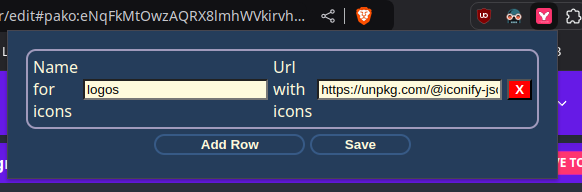
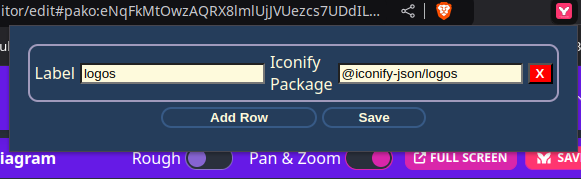
Documentation and QOL, actions doesnt work

diff --git a/inject.js b/inject.js
@@ -7,6 +7,30 @@ function loadInputsFromStorage() {
     });
 }
 
+function packageToUrl(package){
+    const start = 'https://unpkg.com/';
+    const end = '/icons.json';
+    const url = start + package + end;
+    return url;
+}
+
+function loadToUpload(load){
+    const result = [];
+    for (namePackage of load){
+        result.push(make_url(namePackage));
+    }
+    return result;
+}
+
+function make_url(namePackage){
+    const name = namePackage.name;
+    const url = namePackage.url;
+    const upload = {
+        name: name,
+        url: packageToUrl(url)
+    }
+    return upload;
+}
 
 function injectDefaultDiv(){
     const hiddenDiv = document.createElement("div");
@@ -20,8 +44,9 @@ async function injectData() {
     // Cargar datos de almacenamiento
     injectDefaultDiv();
     const variables = await loadInputsFromStorage();
+    const upload = loadToUpload(variables);
     const hiddenDiv = document.getElementById("extension-data");
-    hiddenDiv.textContent = JSON.stringify(variables);
+    hiddenDiv.textContent = JSON.stringify(upload);
 }
 
 // Ejecutar la función principal

diff --git a/popup/scripts.js b/popup/scripts.js
@@ -7,7 +7,7 @@ function check_url(text){
     let condition1 = text.startsWith(start);
     let c2 = text.endsWith(end);
     let c = condition1 && c2;
-    return c;
+    return true;
 }
 
 function check_name(text){
@@ -49,7 +49,7 @@ function add_row(name='',value='') {
 
     // Crear y añadir el span
     const span_0 = document.createElement("span");
-    span_0.textContent = "Name for icons";
+    span_0.textContent = "Label";
     newDiv.appendChild(span_0);
 
     // Crear y añadir el input
@@ -63,7 +63,7 @@ function add_row(name='',value='') {
 
     // Crear y añadir el span
     const span = document.createElement("span");
-    span.textContent = "Url with icons";
+    span.textContent = "Iconify Package";
     newDiv.appendChild(span);
 
     // Crear y añadir el input

diff --git a/README.md b/README.md
@@ -11,14 +11,37 @@ Once you install the app from the marketplace, you will have the extension popup
 
 ![PopupImage](./assets/ExtensionPopup.png)
 
-* ***Name for icons*** equals the label that you will use in the app text editor.
-* ***Url with icons*** is the url with the json file of the icons. ([Official example]('https://unpkg.com/@iconify-json/logos@1/icons.json')) and must start with https://unpkg.com/ and end with .json for the extension to work.
+* ***Label***: the label that you will use in the app text editor.
+* ***Iconify package*** The iconify package with the icons ([Official example]('https://unpkg.com/@iconify-json/logos@1/icons.json')) and must start with https://unpkg.com/ and end with .json for the extension to work.
 
 You will start without any rows, you can add one by pressing "Add row", and you will need to click on "Save" to save them (There is no animation, to prove it was saved, close and open the popup again, or click outside and open it again). Always locally (on your computer).
 
 And that is all, if you go to my version of it, it will work as [documented](https://mermaid.js.org/syntax/architecture.html).
 
 ![LiveExample](./assets/ExampleLiveEditor.png)
+
+
+## How to get new icons
+
+Once you have chosen your icons from the [page](https://icones.js.org/) you need to do the next steps:
+
+### Example
+
+1. Choose Icon pack.
+
+![Step1](./assets/ExampleStep1.png)
+
+2. Click on the npm link. It will open a new tab.
+
+![Step2](./assets/ExampleStep2.png)
+
+3. Copy the package name (the highlighted text).
+
+![Step3](./assets/ExampleStep3.png)
+
+4. Paste the package on the input of the popup (Iconify package).
+5. Click on save.
+6. Recharge the page.
 
 
 ## App documentation
@@ -28,6 +51,8 @@ And that is all, if you go to my version of it, it will work as [documented](htt
 * **content.js**: Currently unused.
 * **inject.js**: What is injected in the live editor page.
   * It just injects an html div with the content of the popup.
+
+
 
 
 
